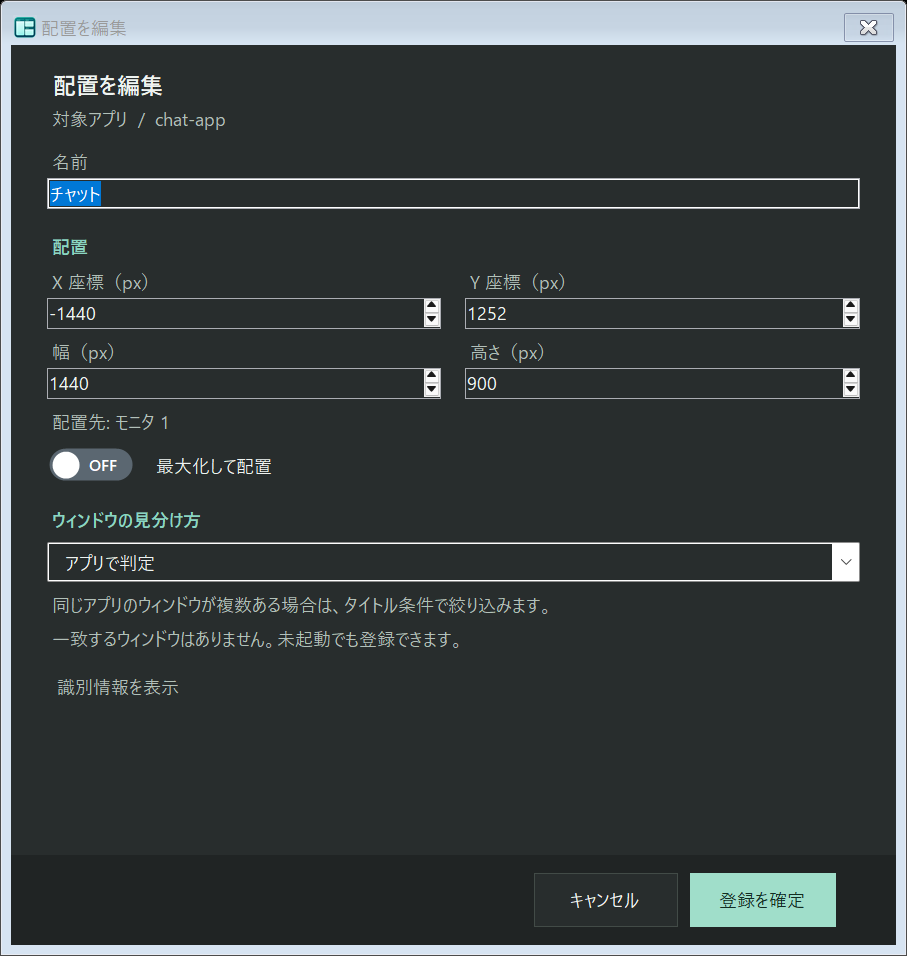
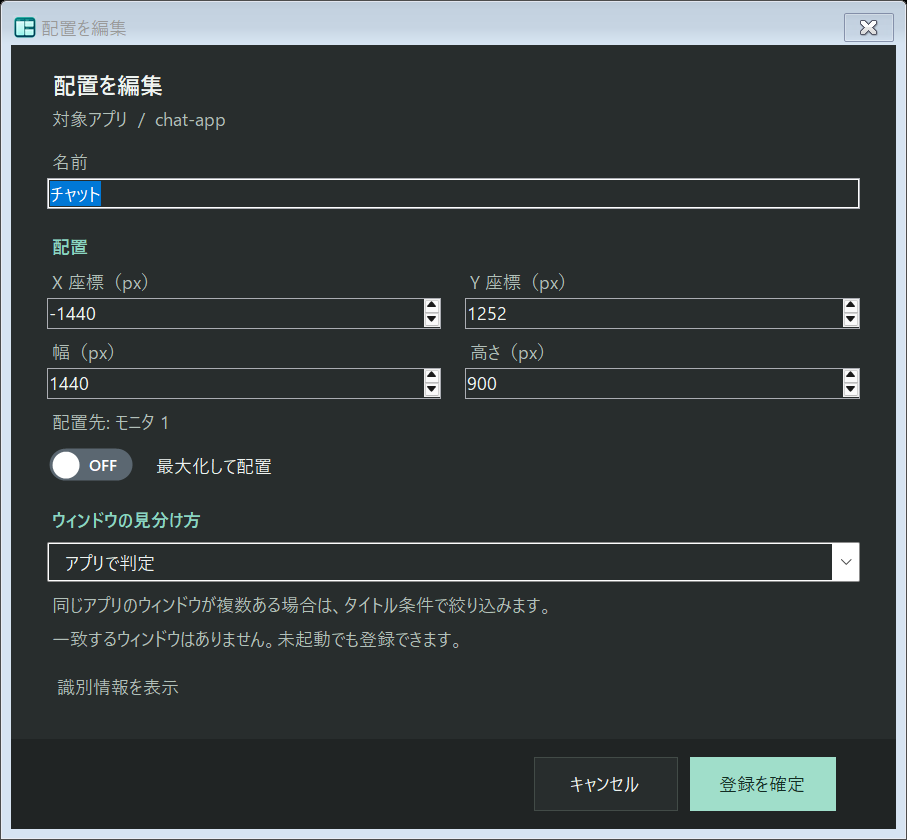
READMEの画面画像を内容に合うウィンドウサイズで再撮影

Changed region(s): [[0.0, 0.0, 0.9879, 0.7738], [0.0, 0.8976, 1.0, 1.0], [0.0617, 0.8048, 0.1852, 0.8357]]

diff --git a/_dev/verification/Verification.cs b/_dev/verification/Verification.cs
@@ -12,6 +12,7 @@ namespace AppLayout {
  internal static class Verification {
   static int checks;
   static string output;
+  static bool screenshotsOnly;
   [DllImport("user32.dll")] static extern bool PostMessage(IntPtr handle, uint message, IntPtr wParam, IntPtr lParam);
   [DllImport("user32.dll")] static extern IntPtr GetWindowDC(IntPtr handle);
   [DllImport("user32.dll")] static extern int ReleaseDC(IntPtr handle,IntPtr dc);
@@ -28,6 +29,7 @@ namespace AppLayout {
     Native.MakeDpiAware(); Application.EnableVisualStyles(); Application.SetCompatibleTextRenderingDefault(false);
     output = Path.GetDirectoryName(Assembly.GetExecutingAssembly().Location);
     if (args.Length == 1 && args[0] == "screenshots") {
+     screenshotsOnly = true;
      TestEditor(); TestLedger();
      Console.WriteLine("Completed " + checks + " checks."); return 0;
     }
@@ -127,8 +129,25 @@ namespace AppLayout {
   }
   static void Capture(Form form,string name) {
    if(!form.Visible)form.Show();Application.DoEvents();
+   if(screenshotsOnly && (name=="main-theme-light.png" || name=="main-theme-dark.png" || name=="edit-dialog.png")) FitScreenshot(form);
    var watch=Stopwatch.StartNew();while(watch.ElapsedMilliseconds<350){Application.DoEvents();Thread.Sleep(10);}
    using(var bitmap=new Bitmap(form.Width,form.Height)) { form.DrawToBitmap(bitmap,new Rectangle(0,0,bitmap.Width,bitmap.Height));bitmap.Save(Path.Combine(output,name)); }
+  }
+  // 公開画像は実際のウィンドウをリサイズし、一覧や入力欄の下の空白を減らす。
+  static void FitScreenshot(Form form) {
+   var grids=form.Controls.Find("LedgerGrid",true);
+   if(grids.Length>0) {
+    var grid=(DataGridView)grids[0];
+    int needed=grid.ColumnHeadersHeight+8;
+    foreach(DataGridViewRow row in grid.Rows)needed+=row.Height;
+    form.Height-=Math.Max(0,grid.Height-needed);
+   } else if(form is EntryEditDialog) {
+    var flags=BindingFlags.Instance|BindingFlags.NonPublic;
+    var content=(TableLayoutPanel)typeof(EntryEditDialog).GetField("content",flags).GetValue(form);
+    var scroll=(ThemedScrollPanel)typeof(EntryEditDialog).GetField("scroll",flags).GetValue(form);
+    form.Height-=Math.Max(0,scroll.Height-content.Height-8);
+   }
+   form.PerformLayout();Application.DoEvents();
   }
   static IntPtr AppWindow(int pid) {
    IntPtr result=IntPtr.Zero;
